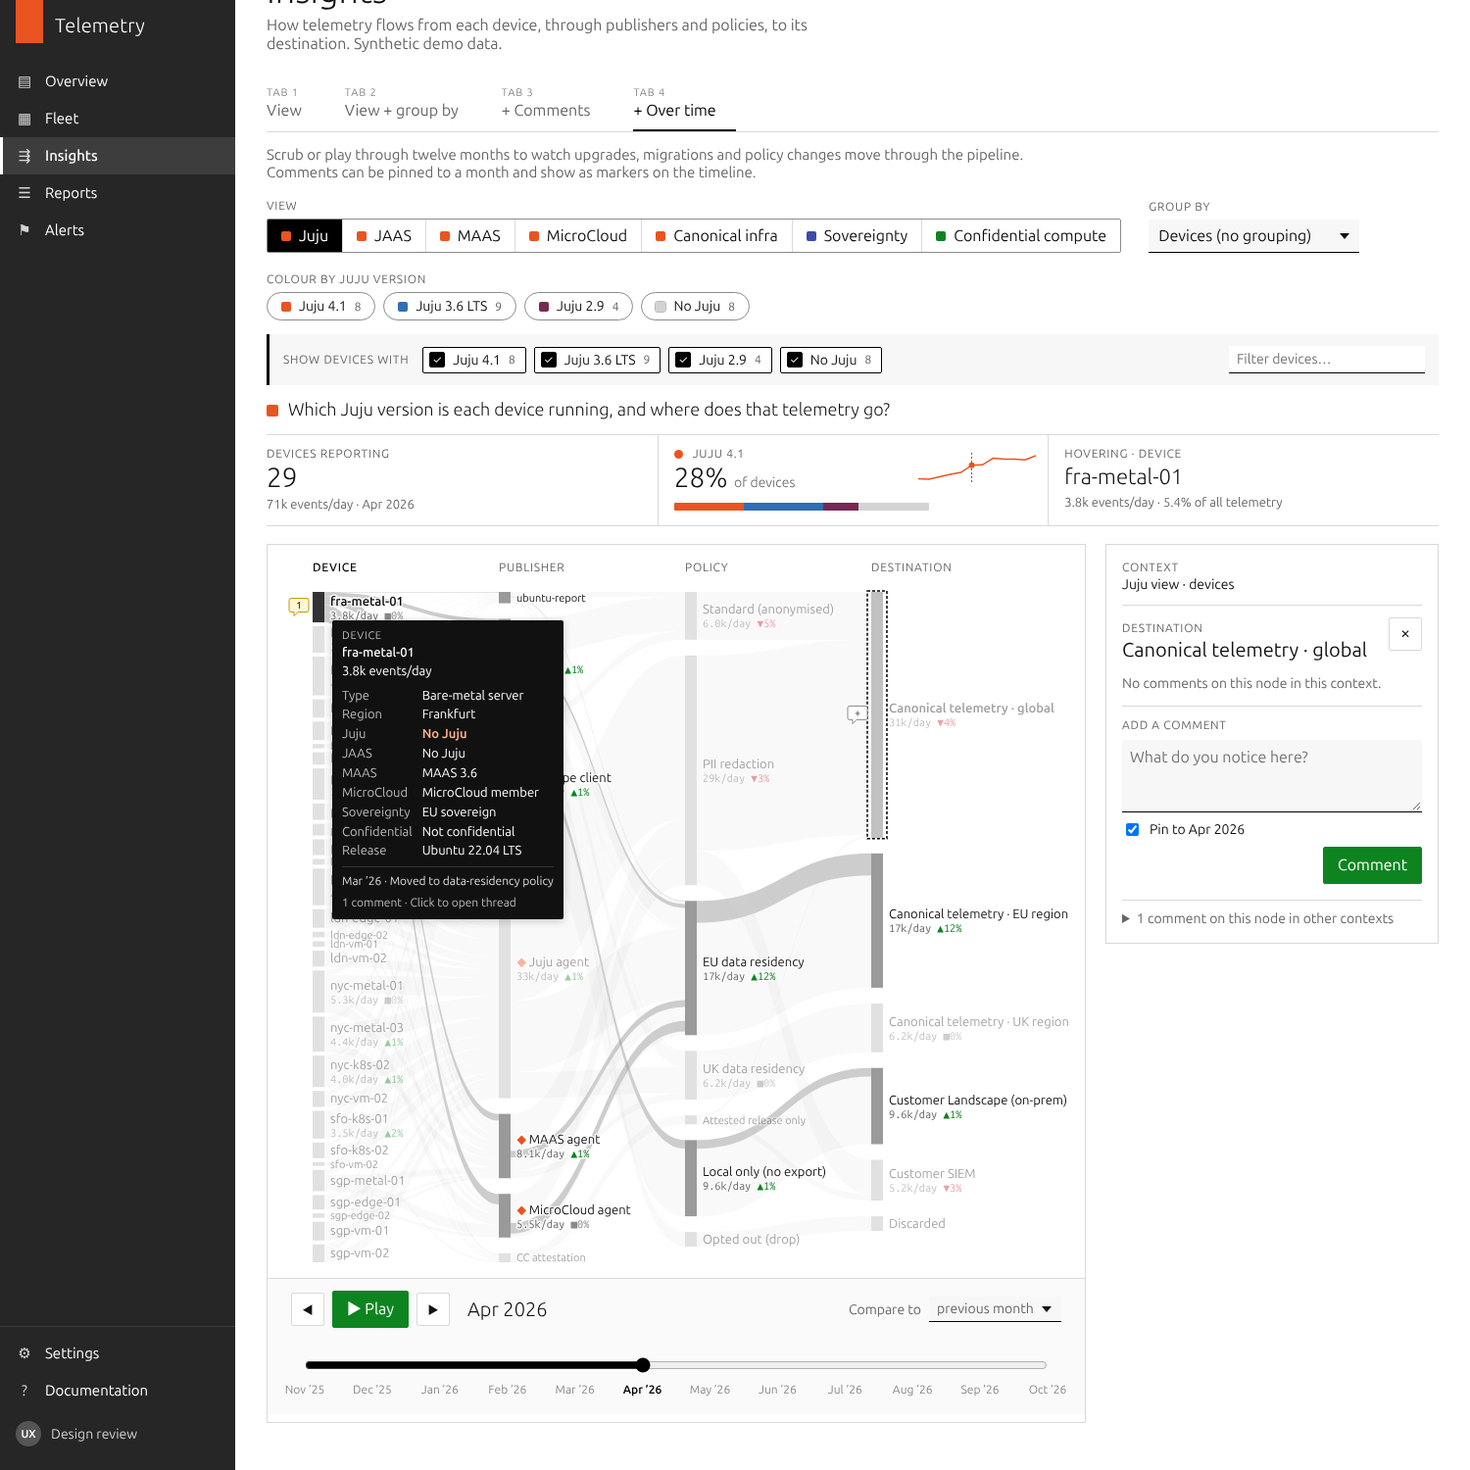
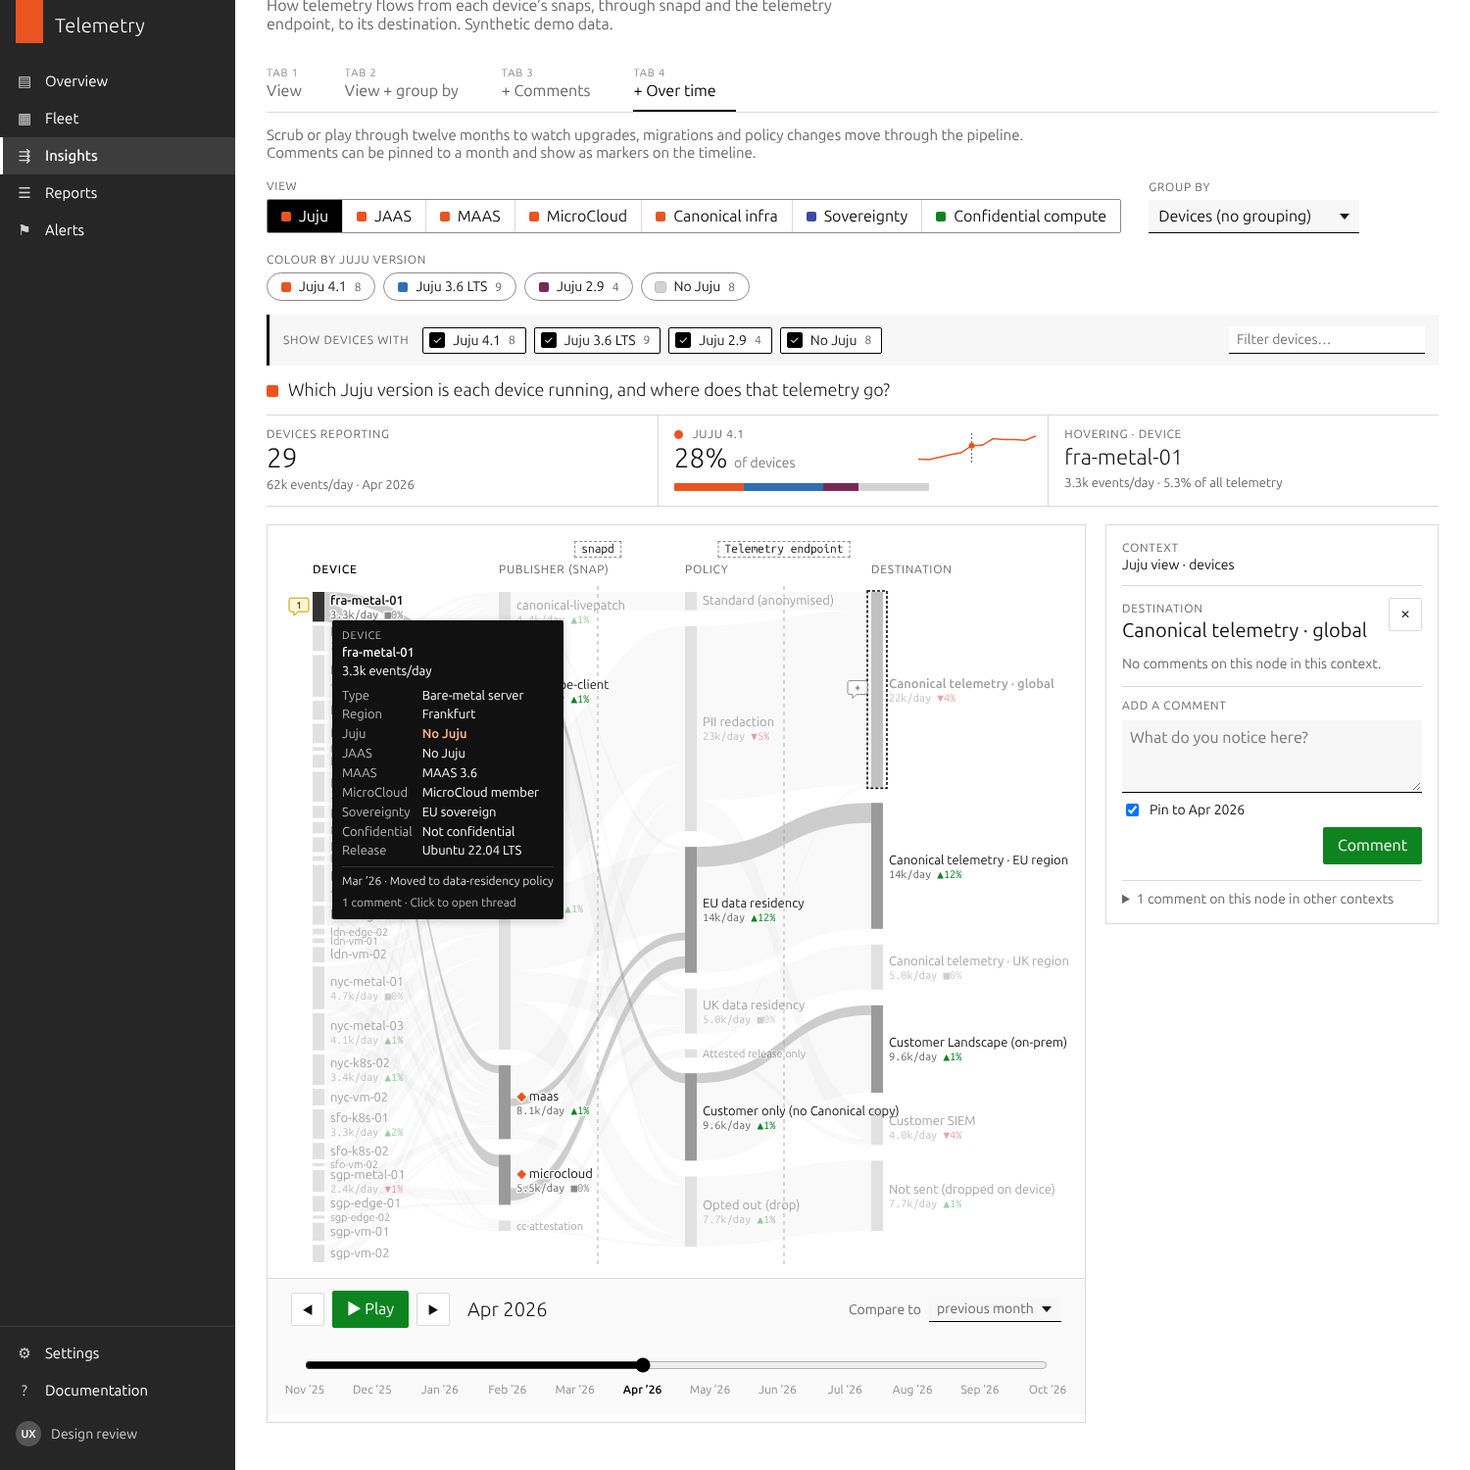
Model snapd and the telemetry endpoint in the pipeline
Publishers are now snaps only, labelled by snap name; snapd is no longer
listed as a publisher. snapd (multiplexes each device's snaps into one
stream) and the telemetry endpoint (demultiplexes, routes, forwards) are
drawn as dashed markers between columns, and each policy rule records
whether it is applied by snapd or at the endpoint.

Add CLAUDE.md capturing the architecture, terminology and agreed rules.

Claude-Session: https://claude.ai/code/session_0156BKrAD5wHGfcWHmuamSMf

diff --git a/js/data.js b/js/data.js
@@ -4,6 +4,11 @@
  * The Sankey always shows the telemetry pipeline:
  *
  *      [ column 1 ]  →  Publisher  →  Policy  →  Destination
+ *                       (snap)   ↑ snapd     ↑ telemetry endpoint
+ *
+ * Every snap hands its telemetry to snapd, which enforces naming and
+ * on-device rules and multiplexes all snaps into a single stream to the
+ * telemetry endpoint. The endpoint demultiplexes, routes and forwards.
  *
  * Column 1 is the only thing that changes:
  *   - no group-by  → one node per DEVICE
@@ -90,7 +95,7 @@ window.TL = window.TL || {};
       { id: 'none', label: 'Not confidential', color: GREY }] },
     type: { label: 'Device type', short: 'Type', values: [
       { id: 'metal', label: 'Bare-metal server' }, { id: 'vm', label: 'Virtual machine' },
-      { id: 'k8s', label: 'Kubernetes node' }, { id: 'edge', label: 'Edge gateway' }] },
+      { id: 'k8s', label: 'Kubernetes node' }, { id: 'edge', label: 'Edge device' }] },
     region: { label: 'Region', short: 'Region', values: [
       { id: 'fra', label: 'Frankfurt' }, { id: 'par', label: 'Paris' }, { id: 'ldn', label: 'London' },
       { id: 'nyc', label: 'New York' }, { id: 'sfo', label: 'San Francisco' }, { id: 'sgp', label: 'Singapore' }] },
@@ -99,22 +104,25 @@ window.TL = window.TL || {};
   };
 
   // ---- Pipeline vocabularies -----------------------------------------
-  const PUBLISHERS = { label: 'Publisher', values: [
-    { id: 'ubuntu-report', label: 'ubuntu-report' },
-    { id: 'snapd', label: 'snapd' },
-    { id: 'livepatch', label: 'Livepatch' },
-    { id: 'landscape', label: 'Landscape client' },
-    { id: 'juju', label: 'Juju agent', canonical: true },
-    { id: 'maas', label: 'MAAS agent', canonical: true },
-    { id: 'microcloud', label: 'MicroCloud agent', canonical: true },
-    { id: 'attest', label: 'CC attestation' }] };
+  // Publishers are snaps. Every snap hands its telemetry to snapd on the
+  // device; snapd enforces naming and on-device rules, multiplexes all
+  // snaps into one stream and sends it to the telemetry endpoint, which
+  // demultiplexes, routes and forwards. Labels are the snap names that
+  // snapd enforces.
+  const PUBLISHERS = { label: 'Publisher (snap)', values: [
+    { id: 'livepatch', label: 'canonical-livepatch' },
+    { id: 'landscape', label: 'landscape-client' },
+    { id: 'juju', label: 'juju', canonical: true },
+    { id: 'maas', label: 'maas', canonical: true },
+    { id: 'microcloud', label: 'microcloud', canonical: true },
+    { id: 'attest', label: 'cc-attestation' }] };
   const POLICIES = { label: 'Policy', values: [
     { id: 'standard', label: 'Standard (anonymised)' },
     { id: 'redact', label: 'PII redaction' },
     { id: 'eu-res', label: 'EU data residency' },
     { id: 'uk-res', label: 'UK data residency' },
     { id: 'attested', label: 'Attested release only' },
-    { id: 'local', label: 'Local only (no export)' },
+    { id: 'local', label: 'Customer only (no Canonical copy)' },
     { id: 'drop', label: 'Opted out (drop)' }] };
   const DESTINATIONS = { label: 'Destination', values: [
     { id: 'canonical-global', label: 'Canonical telemetry · global' },
@@ -122,19 +130,21 @@ window.TL = window.TL || {};
     { id: 'canonical-uk', label: 'Canonical telemetry · UK region' },
     { id: 'landscape', label: 'Customer Landscape (on-prem)' },
     { id: 'siem', label: 'Customer SIEM' },
-    { id: 'discard', label: 'Discarded' }] };
+    { id: 'discard', label: 'Not sent (dropped on device)' }] };
 
-  // ---- Routing rules (ordered, first match wins) ----------------------
+  // ---- Policy rules (ordered, first match wins) -----------------------
   // `when` matches device attributes and/or publisher; `to` lists
-  // destinations with shares.
+  // destinations with shares. `at` records where the rule is applied:
+  //   'snapd'    – on the device, before the stream leaves it
+  //   'endpoint' – at the telemetry endpoint, after demultiplexing
   const ROUTING = [
-    { id: 'R1', when: { consent: 'optout', publisher: ['ubuntu-report', 'snapd'] }, policy: 'drop', to: [['discard', 1]] },
-    { id: 'R2', when: { publisher: 'attest' }, policy: 'attested', to: [['siem', 0.7], ['canonical-global', 0.3]] },
-    { id: 'R3', when: { publisher: 'landscape' }, policy: 'local', to: [['landscape', 1]] },
-    { id: 'R4', when: { sovereignty: 'eu' }, policy: 'eu-res', to: [['canonical-eu', 1]] },
-    { id: 'R5', when: { sovereignty: 'uk' }, policy: 'uk-res', to: [['canonical-uk', 1]] },
-    { id: 'R6', when: { publisher: ['juju', 'maas', 'microcloud'] }, policy: 'redact', to: [['canonical-global', 0.85], ['siem', 0.15]] },
-    { id: 'R7', when: {}, policy: 'standard', to: [['canonical-global', 1]] }
+    { id: 'R1', at: 'snapd', when: { consent: 'optout' }, policy: 'drop', to: [['discard', 1]] },
+    { id: 'R2', at: 'endpoint', when: { publisher: 'attest' }, policy: 'attested', to: [['siem', 0.7], ['canonical-global', 0.3]] },
+    { id: 'R3', at: 'endpoint', when: { publisher: 'landscape' }, policy: 'local', to: [['landscape', 1]] },
+    { id: 'R4', at: 'endpoint', when: { sovereignty: 'eu' }, policy: 'eu-res', to: [['canonical-eu', 1]] },
+    { id: 'R5', at: 'endpoint', when: { sovereignty: 'uk' }, policy: 'uk-res', to: [['canonical-uk', 1]] },
+    { id: 'R6', at: 'snapd', when: { publisher: ['juju', 'maas', 'microcloud'] }, policy: 'redact', to: [['canonical-global', 0.85], ['siem', 0.15]] },
+    { id: 'R7', at: 'endpoint', when: {}, policy: 'standard', to: [['canonical-global', 1]] }
   ];
   function route(attrs, publisher) {
     const ctx = Object.assign({ publisher: publisher }, attrs);
@@ -158,7 +168,7 @@ window.TL = window.TL || {};
     ['sfo', 'k8s', 2], ['sfo', 'vm', 2],
     ['sgp', 'metal', 1], ['sgp', 'edge', 2], ['sgp', 'vm', 2]
   ];
-  const BASE_RATE = { 'ubuntu-report': 40, snapd: 300, livepatch: 90, landscape: 650, juju: 1300, maas: 520, microcloud: 800, attest: 220 };
+  const BASE_RATE = { livepatch: 260, landscape: 650, juju: 1300, maas: 520, microcloud: 800, attest: 220 };
   const TYPE_SCALE = { metal: 1.5, k8s: 1.2, vm: 0.8, edge: 0.6 };
 
   plan.forEach(function (p) {
@@ -172,7 +182,7 @@ window.TL = window.TL || {};
       a.jaas = a.juju === 'none' ? 'none' : (chance(0.25) ? 'jaas' : 'self');
       a.sovereignty = REGION_SOV[region] && chance(0.55) ? REGION_SOV[region] : 'none';
       a.confidential = (type === 'vm' || type === 'k8s') && chance(0.3) ? pick({ tdx: 60, snp: 40 }) : 'none';
-      a.consent = chance(0.15) ? 'optout' : 'optin';
+      a.consent = chance(0.08) ? 'optout' : 'optin';
       const extras = { landscape: chance(0.5), livepatch: chance(0.6) };
 
       const changes = [];
@@ -208,13 +218,14 @@ window.TL = window.TL || {};
     return a;
   }
   function publishersFor(d, a) {
-    const out = ['ubuntu-report', 'snapd'];
+    const out = [];
     if (d.extras.livepatch) out.push('livepatch');
     if (d.extras.landscape) out.push('landscape');
     if (a.juju !== 'none') out.push('juju');
     if (a.maas !== 'none') out.push('maas');
     if (a.microcloud === 'member') out.push('microcloud');
     if (a.confidential !== 'none') out.push('attest');
+    if (!out.length) out.push('livepatch'); // every device runs at least one publishing snap
     return out;
   }
 
@@ -276,6 +287,11 @@ window.TL = window.TL || {};
   Object.assign(TL, {
     MONTHS: MONTHS, monthLabel: monthLabel,
     ATTRIBUTES: ATTRIBUTES, DIMENSIONS: DIMENSIONS, ROUTING: ROUTING,
+    // shared infrastructure every flow passes through (drawn between columns)
+    WAYPOINTS: [
+      { after: 'publisher', label: 'snapd', sub: 'one stream per device' },
+      { after: 'policy', label: 'Telemetry endpoint', sub: 'demultiplex · route · forward' }
+    ],
     DEVICES: DEVICES, VIEWS: VIEWS, GROUP_BYS: GROUP_BYS,
     PIPELINE: ['publisher', 'policy', 'destination'],
     snapshot: snapshot, deviceAt: deviceAt,

diff --git a/js/app.js b/js/app.js
@@ -13,7 +13,7 @@
 
   const TABS = [
     { id: 1, label: 'View', groupBy: false, comments: false, time: false,
-      intro: 'Each device’s telemetry flows through a publisher, a policy and a destination. A view colours every device — and its flows all the way through — by one attribute, e.g. its Juju version. Click a colour to isolate it; hover or click any node to trace its path.' },
+      intro: 'Each snap on a device publishes telemetry to snapd, which merges it into one stream for the telemetry endpoint; the endpoint applies policy and forwards it to a destination. A view colours every device — and its flows all the way through — by one attribute, e.g. its Juju version. Click a colour to isolate it; hover or click any node to trace its path.' },
     { id: 2, label: 'View + group by', groupBy: true, comments: false, time: false,
       intro: 'Group by replaces the device column with streams per value (e.g. Juju 4.1 / 3.6 / none). Publisher, policy and destination stay exactly the same. Use the chips to filter streams in or out.' },
     { id: 3, label: '+ Comments', groupBy: true, comments: true, time: false,
@@ -179,6 +179,7 @@
     }
 
     S.render(el.svg, L, {
+      waypoints: waypoints(stg, L),
       palette: palette(),
       isolate: state.isolate[state.view] || null,
       focusId: state.hover || state.selected,
@@ -195,9 +196,21 @@
     if (t.comments) drawComments(); else el.comments.hidden = true;
   }
 
+  // x positions of shared pipeline steps, midway between the columns they sit between
+  function waypoints(stg, L) {
+    return TL.WAYPOINTS.map(function (w) {
+      const i = stg.indexOf(w.after);
+      const a = L.nodes.filter(function (n) { return n.col === i; })[0];
+      const b = L.nodes.filter(function (n) { return n.col === i + 1; })[0];
+      return a && b ? Object.assign({ x: (a.x + a.w + b.x) / 2 }, w) : null;
+    }).filter(Boolean);
+  }
   function drawLegend(stg, L) {
     el.legend.style.width = L.width + 'px';
-    el.legend.innerHTML = stg.map(function (d, i) {
+    const wps = waypoints(stg, L).map(function (w) {
+      return '<span class="chart-legend__wp" style="left:' + w.x + 'px" title="' + esc(w.sub) + '"><strong>' + esc(w.label) + '</strong></span>';
+    }).join('');
+    el.legend.innerHTML = wps + stg.map(function (d, i) {
       const n = L.nodes.filter(function (x) { return x.col === i; })[0];
       const label = d === 'device' ? 'Device' : TL.DIMENSIONS[d].label;
       return '<span class="chart-legend__col' + (i === stg.length - 1 ? ' is-last' : '') + (i === 0 ? ' is-first' : '') + '" style="left:' + (n ? n.x : 0) + 'px">' + esc(label) + '</span>';
@@ -431,8 +444,9 @@
       body = segBreakdown(n.seg, n.value);
     }
     if (n.dim === 'policy') {
-      const rules = TL.ROUTING.filter(function (r) { return r.policy === n.val; }).map(function (r) { return r.id; });
-      body += '<div class="tooltip__hint">Routing rule ' + rules.join(', ') + '</div>';
+      const rules = TL.ROUTING.filter(function (r) { return r.policy === n.val; });
+      body += '<div class="tooltip__hint">Rule ' + rules.map(function (r) { return r.id; }).join(', ') + ' · applied ' +
+        (rules[0].at === 'snapd' ? 'on the device by snapd' : 'at the telemetry endpoint') + '</div>';
     }
     const cnt = tab().comments ? (TL.comments.counts(ctx())[id] || 0) : 0;
     return '<div class="tooltip__dim">' + esc(TL.DIMENSIONS[n.dim].label) + (v.canonical ? ' · <span class="canon">◆ Canonical</span>' : '') + '</div>' +

diff --git a/css/app.css b/css/app.css
@@ -124,7 +124,7 @@ body[data-tab="3"] .insights__body, body[data-tab="4"] .insights__body { grid-te
 .p-card { border: 1px solid var(--border); background: #fff; }
 .insights__chart { padding: 16px 16px 8px; min-width: 0; }
 .chart-wrap { width: 100%; overflow-x: auto; }
-.chart-legend { position: relative; height: 22px; margin-bottom: 4px; font-size: .75rem; text-transform: uppercase; letter-spacing: .06em; color: var(--muted); }
+.chart-legend { position: relative; height: 42px; margin-bottom: 4px; font-size: .75rem; text-transform: uppercase; letter-spacing: .06em; color: var(--muted); }
 .chart-legend__col { position: absolute; top: 0; white-space: nowrap; }
 .chart-legend__col.is-first { color: var(--ink); font-weight: 500; }
 
@@ -241,3 +241,10 @@ body[data-tab="3"] .insights__body, body[data-tab="4"] .insights__body { grid-te
 .tooltip__attrs dd { margin: 0; }
 .tooltip__attrs dd.is-view { color: #ffb38f; font-weight: 600; }
 .tooltip__hist { margin-top: 6px; padding-top: 6px; border-top: 1px solid #333; color: #ddd; font-size: .75rem; }
+
+/* Shared pipeline steps (snapd, telemetry endpoint) */
+.sk-waypoint { stroke: #6b6b6b; stroke-width: 1; stroke-dasharray: 4 4; opacity: .55; }
+.chart-legend__wp { position: absolute; top: 0; transform: translateX(-50%); display: flex; flex-direction: column; align-items: center; text-transform: none; letter-spacing: 0; line-height: 1.25; white-space: nowrap; }
+.chart-legend__wp strong { font-family: "Ubuntu Sans Mono", ui-monospace, monospace; font-weight: 500; font-size: .75rem; color: var(--text); border: 1px dashed #8a8a8a; padding: 0 6px; background: #fff; }
+.chart-legend__wp span { font-size: .6875rem; color: var(--faint); }
+.chart-legend__col { top: 22px; }

diff --git a/js/comments.js b/js/comments.js
@@ -20,7 +20,7 @@
  */
 (function (TL) {
   'use strict';
-  const KEY = 'tl.insights.comments.v2';
+  const KEY = 'tl.insights.comments.v3';
 
   const SEED = [
     { anchor: { view: 'juju', groupBy: 'juju', node: 'juju:2.9', period: null },
@@ -32,7 +32,7 @@
     { anchor: { view: 'jaas', groupBy: 'jaas', node: 'jaas:jaas', period: '2026-04' },
       author: 'Product · JAAS', body: 'Most JAAS growth is existing self-hosted controllers moving over, not net-new Juju users.' },
     { anchor: { view: 'maas', groupBy: 'device', node: 'publisher:maas', period: null },
-      author: 'Telemetry team', body: 'MAAS agent is the second-largest publisher by volume. Worth checking the sampling rate.' },
+      author: 'Telemetry team', body: 'The maas snap is one of the largest publishers by volume. Worth checking its sampling rate in snapd.' },
     { anchor: { view: 'microcloud', groupBy: 'type', node: 'type:edge', period: null },
       author: 'Product · MicroCloud', body: 'Edge gateways are where MicroCloud adoption is concentrated.' },
     { anchor: { view: 'sovereignty', groupBy: 'sovereignty', node: 'destination:canonical-global', period: null },

diff --git a/js/sankey.js b/js/sankey.js
@@ -162,7 +162,12 @@
       });
       return out;
     }
-    const parts = ['<g class="sk-links">'];
+    const parts = [];
+    // shared pipeline steps (snapd, telemetry endpoint) as dashed lanes behind the flows
+    (opts.waypoints || []).forEach(function (w) {
+      parts.push('<line class="sk-waypoint" x1="' + w.x + '" x2="' + w.x + '" y1="0" y2="' + L.height + '"/>');
+    });
+    parts.push('<g class="sk-links">');
     L.links.forEach(function (l) {
       parts.push('<g class="sk-link' + (focusing ? ' is-focusing' : '') + (focusing && l.f < 0.01 ? ' is-dim' : '') + '" data-link="' + esc(l.key) + '">');
       parts.push('<path class="sk-link__base" d="' + band(l, 0, l.w) + '"/>');

diff --git a/index.html b/index.html
@@ -36,7 +36,7 @@
       <div>
         <div class="p-breadcrumb">Telemetry / <strong>Insights</strong></div>
         <h1 class="p-heading">Insights</h1>
-        <p class="p-subtitle">How telemetry flows from each device, through publishers and policies, to its destination. Synthetic demo data.</p>
+        <p class="p-subtitle">How telemetry flows from each device’s snaps, through snapd and the telemetry endpoint, to its destination. Synthetic demo data.</p>
       </div>
       <div class="p-page-header__actions">
         <button class="p-button" id="reset-demo" type="button">Reset demo comments</button>

diff --git a/README.md b/README.md
@@ -3,8 +3,16 @@
 A dependency-free prototype of the **Insights** page for Ubuntu telemetry. It shows how telemetry flows through the pipeline:
 
 ```
-[ column 1 ]  →  Publisher  →  Policy  →  Destination
+[ column 1 ]  →  Publisher (snap)  →  Policy  →  Destination
+                                 ┆ snapd      ┆ telemetry endpoint
 ```
+
+**Architecture:**
+1. Every snap on a device hands its telemetry to **snapd**.
+2. snapd enforces naming and on-device rules, then merges all snaps into **one stream** to the **telemetry endpoint**.
+3. The endpoint splits the stream back out by snap, applies routing policy and forwards each flow to its destination.
+
+snapd and the endpoint are drawn as dashed markers between the columns. Every flow passes through them, so neither needs a column of its own. Each policy rule records where it's applied: `at: 'snapd'` (on the device) or `at: 'endpoint'`.
 
 **Only column 1 changes.**
 - With **no group-by**, column 1 has one node per **device**.
@@ -39,8 +47,9 @@ Group-by can use any of these attributes, plus device type, region and Ubuntu re
 
 ```
 ATTRIBUTES    { attr → { label, values: [{ id, label, color? }] } }   // device vocabulary; no colour = neutral
-PUBLISHERS / POLICIES / DESTINATIONS                                 // pipeline vocabularies
-ROUTING       [{ id, when: {attr|publisher: value|[values]}, policy, to: [[destination, share]] }]
+PUBLISHERS / POLICIES / DESTINATIONS                                 // publishers are snaps (snap names)
+WAYPOINTS     [{ after: 'publisher'|'policy', label }]                // snapd, telemetry endpoint
+ROUTING       [{ id, at: 'snapd'|'endpoint', when: {attr|publisher: value|[values]}, policy, to: [[destination, share]] }]
               // ordered, first match wins — auditable and easy to change
 DEVICES       [{ id, attrs, extras, onboarded, scale, growth,
                  changes: [{ month, attrs, note }] }]                 // upgrades, migrations, policy moves
@@ -53,7 +62,7 @@ GROUP_BYS     ['device', …attributes]
 - Node ids are `"<dimension>:<value>"` (e.g. `juju:3.6`, `device:fra-metal-01`, `policy:eu-res`). They stay the same across time, views and group-bys.
 - Columns are top-aligned, so the top stream runs horizontally and lower streams rise into it. Node order is fixed, so playback doesn't reshuffle.
 
-The routing rules deliberately contain a realistic flaw. Rule R2 (attestation evidence) comes before R4 (EU residency), so a little telemetry from EU-sovereign devices reaches the global destination. The Sovereignty view makes this visible, and a seeded comment flags it.
+The routing rules deliberately contain a realistic flaw. Rule R2 (attestation evidence, applied at the endpoint) comes before R4 (EU residency), so a little telemetry from EU-sovereign devices reaches the global destination. The Sovereignty view makes this visible, and a seeded comment flags it.
 
 ## Comments (`js/comments.js`)
 

diff --git a/CLAUDE.md b/CLAUDE.md
@@ -1,0 +1,24 @@
+# Context for Claude sessions
+
+Prototype of the **Insights** page (Telemetry product): a Sankey shown as four demo tabs. See README.md for the data model.
+
+## Telemetry architecture (as described by the product owner)
+- Every snap on a device sends its telemetry to **snapd**.
+- snapd enforces rules and naming, and multiplexes all snaps into a **single stream** to the **telemetry endpoint**.
+- The telemetry endpoint demultiplexes, routes and forwards to destinations.
+
+## Terminology
+- Do **not** describe snapd as a "gateway" — that term is not to be used. Describe what it does (enforces rules and naming, multiplexes into one stream).
+- Publishers are snaps; label them with their snap names.
+
+## Sankey rules agreed with the user
+- Columns are fixed: **Device → Publisher → Policy → Destination**. Only column 1 changes.
+- A **view** colours devices (and their flows end to end) by one attribute, e.g. Juju version. Views never change columns.
+- **Group by** replaces the device column with that attribute's values (e.g. Juju 4.1 / 3.6 / none); publisher, policy and destination stay intact.
+- Tabs: 1 view · 2 + group by · 3 + comments · 4 + over time.
+- Columns top-aligned (top stream horizontal, others rise into it); flows fairly transparent.
+
+## Deployment
+- Work branch: `claude/sankey-telemetry-illustration-vkal2f`.
+- GitHub Pages serves the `gh-pages` branch at https://unco.github.io/Telemetry/ — push changes to both branches.
+- Data is synthetic and seeded; the site is public.
